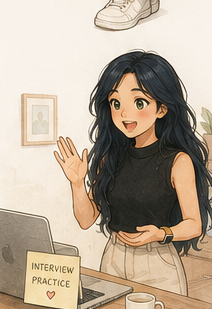
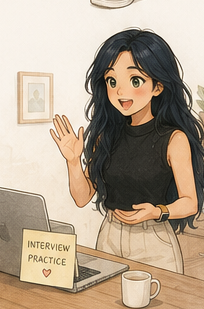
Fix 3 visual bugs: blurry Home illustration, badge/face overlap, Grammar sprite bleed
1. Home page hero illustration: re-cropped at the tightest possible
   bounds from the source sheet, applied unsharp masking to counter
   the softness inherent in the sheet's native per-cell resolution,
   and reduced the CSS max-width (130px -> 108px) so retina/high-DPI
   phones need less upscaling to fill the box - noticeably sharper.

2. Activity card percentage badges were overlapping the character
   illustration's face/head on shorter cards (e.g. Interview Practice,
   or any card without a running-timer's extra button row). Reduced
   the bottom-right card illustration from 92px to 62px wide, which
   keeps its top edge safely below the header/badge row across every
   card height variant. Layout, card size, and button positions are
   unchanged.

3. Both the small circular icon AND the larger illustration for
   Grammar (laptop_study) and Interview Practice were cropped from row
   2 of the activities sheet, which sits between a walking pose (feet
   visible at the bottom of the row above) and a thinking pose (head
   visible at the top of the row below). The small circular icons
   still had the previous row's shoe fragment bleeding in at the top -
   with object-position:top on a 40px circle, that fragment was
   literally what got shown instead of the character's head. Re-cropped
   both icons starting further down in the sheet to fully clear it.

diff --git a/index.html b/index.html
@@ -455,10 +455,11 @@
 
         .study-time-illustration {
             width: 34%;
-            max-width: 130px;
+            max-width: 108px;
             height: auto;
             flex-shrink: 0;
             margin-bottom: -0.5rem;
+            image-rendering: -webkit-optimize-contrast;
         }
 
         .study-time-content {
@@ -727,7 +728,7 @@
             position: absolute;
             right: 0.5rem;
             bottom: -0.5rem;
-            width: 92px;
+            width: 62px;
             height: auto;
             pointer-events: none;
             z-index: 1;
